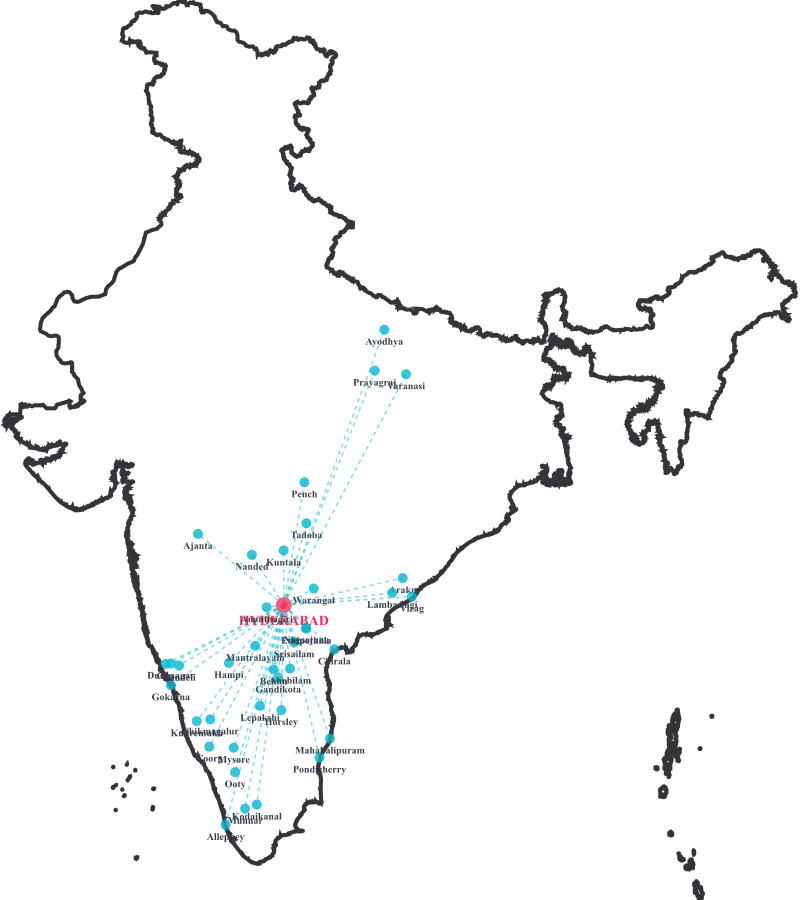
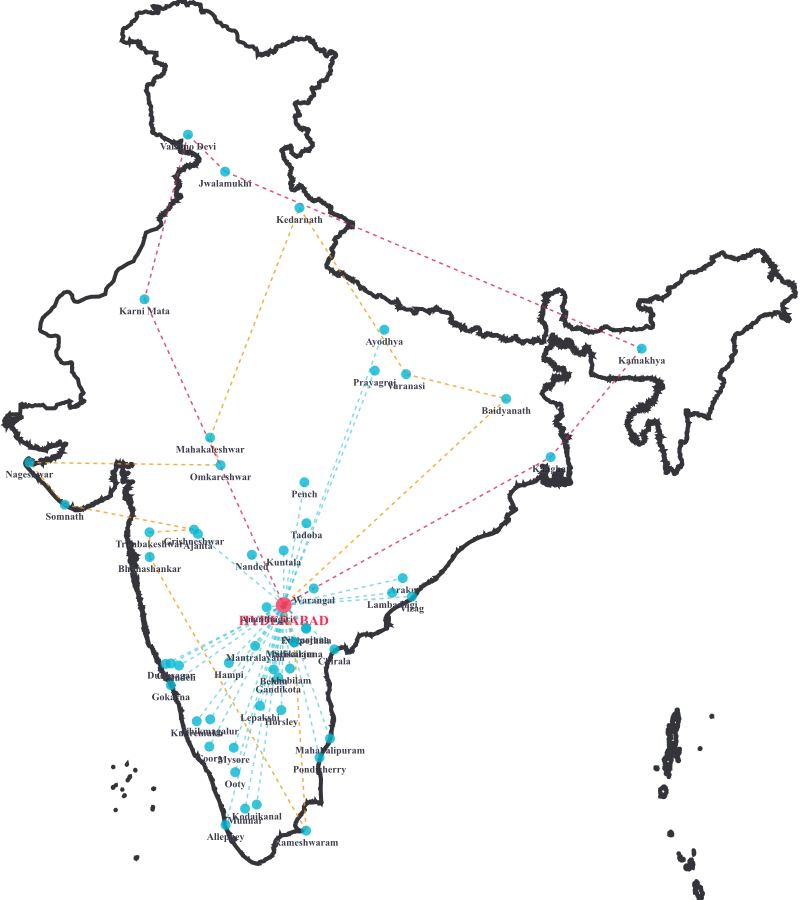
Update trips to show 6 seats per trip; update maps for Jyotirlinga and Shaktipeetham loops

diff --git a/generate-map.js b/generate-map.js
@@ -42,7 +42,23 @@ const cities = {
     Nanded: [77.3090, 19.1492],
     Varanasi: [83.0039, 25.3176],
     Prayagraj: [81.8463, 25.4358],
-    Ayodhya: [82.1998, 26.7922]
+    Ayodhya: [82.1998, 26.7922],
+    Mallikarjuna: [78.8711, 16.0730],
+    Rameshwaram: [79.3129, 9.2876],
+    Bhimashankar: [73.5359, 19.0720],
+    Trimbakeshwar: [73.5298, 19.9324],
+    Grishneshwar: [75.1706, 20.0247],
+    Somnath: [70.4011, 20.8880],
+    Nageshwar: [69.0931, 22.3340],
+    Omkareshwar: [76.1557, 22.2447],
+    Mahakaleshwar: [75.7682, 23.1827],
+    Kedarnath: [79.0669, 30.7352],
+    Baidyanath: [86.6997, 24.4921],
+    Kalighat: [88.3426, 22.5204],
+    Kamakhya: [91.7039, 26.1666],
+    Jwalamukhi: [76.3216, 31.8789],
+    'Vaishno Devi': [74.9490, 33.0308],
+    'Karni Mata': [73.3444, 27.7909]
 };
 
 https.get('https://raw.githubusercontent.com/datameet/maps/master/Country/india-composite.geojson', (resp) => {
@@ -81,11 +97,35 @@ https.get('https://raw.githubusercontent.com/datameet/maps/master/Country/india-
             svgHtml += svgStyles;
             svgHtml += '<path class="india-outline" d="' + svgPath.trim() + '" />';
             
-            // Draw routes first so they are under dots
+            const jyotirlingaRoute = [
+                'Hyderabad', 'Mallikarjuna', 'Rameshwaram', 'Bhimashankar', 'Trimbakeshwar', 
+                'Grishneshwar', 'Somnath', 'Nageshwar', 'Omkareshwar', 'Mahakaleshwar', 
+                'Kedarnath', 'Varanasi', 'Baidyanath', 'Hyderabad'
+            ];
+            const shaktipeethRoute = [
+                'Hyderabad', 'Kalighat', 'Kamakhya', 'Jwalamukhi', 'Vaishno Devi', 'Karni Mata', 'Hyderabad'
+            ];
+            const loopCities = new Set([...jyotirlingaRoute, ...shaktipeethRoute]);
+
+            // Draw regular routes first so they are under dots
             for (const [city, coords] of Object.entries(cities)) {
-                if (city === 'Hyderabad') continue;
+                if (city === 'Hyderabad' || loopCities.has(city)) continue;
                 const pt = projection(coords);
                 svgHtml += '<line class="route-line" x1="' + hyd[0] + '" y1="' + hyd[1] + '" x2="' + pt[0] + '" y2="' + pt[1] + '" />';
+            }
+
+            // Draw Jyotirlinga loop
+            for (let i = 0; i < jyotirlingaRoute.length - 1; i++) {
+                const pt1 = projection(cities[jyotirlingaRoute[i]]);
+                const pt2 = projection(cities[jyotirlingaRoute[i+1]]);
+                svgHtml += '<line class="route-line" style="stroke:#ff9800; opacity:0.8" x1="' + pt1[0] + '" y1="' + pt1[1] + '" x2="' + pt2[0] + '" y2="' + pt2[1] + '" />';
+            }
+
+            // Draw Shaktipeeth loop
+            for (let i = 0; i < shaktipeethRoute.length - 1; i++) {
+                const pt1 = projection(cities[shaktipeethRoute[i]]);
+                const pt2 = projection(cities[shaktipeethRoute[i+1]]);
+                svgHtml += '<line class="route-line" style="stroke:#e91e63; opacity:0.8" x1="' + pt1[0] + '" y1="' + pt1[1] + '" x2="' + pt2[0] + '" y2="' + pt2[1] + '" />';
             }
 
             // Draw hub

diff --git a/js/map.js b/js/map.js
@@ -101,7 +101,10 @@ document.addEventListener('DOMContentLoaded', () => {
         Rameshwaram: [9.2876, 79.3129],
         Kamakhya: [26.1668, 91.7061],
         Kalighat: [22.5204, 88.3476],
-        VaishnoDevi: [33.0298, 74.9482]
+        VaishnoDevi: [33.0298, 74.9482],
+        Mallikarjuna: [16.0730, 78.8711],
+        Jwalamukhi: [31.8789, 76.3216],
+        KarniMata: [27.7909, 73.3444]
     };
 
     const hydCoords = cities.Hyderabad;
@@ -115,7 +118,19 @@ document.addEventListener('DOMContentLoaded', () => {
         weight: 2
     }).addTo(map).bindPopup('<b>Hyderabad</b> (Departure Hub)');
 
-    const multiCityRoutes = new Set(['Varanasi', 'Prayagraj', 'Ayodhya', 'Lonavala', 'Trimbakeshwar']);
+    const jyotirlingaRoute = [
+        'Hyderabad', 'Mallikarjuna', 'Rameshwaram', 'Bhimashankar', 'Trimbakeshwar', 
+        'Grishneshwar', 'Somnath', 'Nageshwar', 'Omkareshwar', 'Mahakaleshwar', 
+        'Kedarnath', 'Varanasi', 'Baidyanath', 'Hyderabad'
+    ];
+    const shaktipeethRoute = [
+        'Hyderabad', 'Kalighat', 'Kamakhya', 'Jwalamukhi', 'VaishnoDevi', 'KarniMata', 'Hyderabad'
+    ];
+
+    const multiCityRoutes = new Set([
+        'Varanasi', 'Prayagraj', 'Ayodhya', 'Lonavala', 'Trimbakeshwar',
+        ...jyotirlingaRoute, ...shaktipeethRoute
+    ]);
 
     // Draw destination lines and markers
     for (const [city, coords] of Object.entries(cities)) {
@@ -175,5 +190,21 @@ document.addEventListener('DOMContentLoaded', () => {
         weight: 2,
         dashArray: '5, 5',
         opacity: 0.4
+    }).addTo(map);
+
+    // Custom Round Route: 12 Jyotirlinga
+    L.polyline(jyotirlingaRoute.map(c => cities[c]), {
+        color: '#ff9800',
+        weight: 2,
+        dashArray: '5, 5',
+        opacity: 0.6
+    }).addTo(map);
+
+    // Custom Round Route: Shaktipeetham
+    L.polyline(shaktipeethRoute.map(c => cities[c]), {
+        color: '#e91e63',
+        weight: 2,
+        dashArray: '5, 5',
+        opacity: 0.6
     }).addTo(map);
 });

diff --git a/build.js b/build.js
@@ -107,7 +107,7 @@ trips.forEach(trip => {
             <div class="trip-meta-tags">
                 <span><i class="fa-regular fa-calendar"></i> ${trip.date}</span>
                 <span><i class="fa-regular fa-clock"></i> ${trip.duration}</span>
-                <span><i class="fa-solid fa-campground"></i> ${trip.stay}</span>
+                <span><i class="fa-solid fa-car"></i> 6 Seats per trip</span>
             </div>
         </div>
     </header>
@@ -126,7 +126,7 @@ trips.forEach(trip => {
             <div class="price-huge">₹${trip.price.toLocaleString('en-IN')} <span style="font-size:1rem;color:var(--text-secondary)">per seat</span></div>
             <button class="btn btn-primary" onclick="bookTrip('${trip.name}', '${trip.date}', '${trip.price}')"><i class="fa-brands fa-whatsapp"></i> Book on WhatsApp</button>
             <button class="btn btn-glass" onclick="shareTripDetail('${trip.name}')"><i class="fa-solid fa-share-nodes"></i> Share Trip</button>
-            <p class='disclaimer' style='font-size:0.85rem; color:var(--text-muted); margin-top:1rem;'>*Note: This price includes travel only. Food and accommodation are included only if explicitly mentioned in the package highlights.</p>
+            <p class='disclaimer' style='font-size:0.85rem; color:var(--text-muted); margin-top:1rem;'>*Note: This price is calculated based on travel only, assuming 6 seats per trip. Food and accommodation are not included.</p>
         </div>
     </main>
 

diff --git a/trips/jyotirlinga.html b/trips/jyotirlinga.html
@@ -72,7 +72,7 @@
             <div class="trip-meta-tags">
                 <span><i class="fa-regular fa-calendar"></i> 1 Nov - 15 Nov</span>
                 <span><i class="fa-regular fa-clock"></i> 15 Days / 14 Nights</span>
-                <span><i class="fa-solid fa-campground"></i> Premium Hotels & AC Trains</span>
+                <span><i class="fa-solid fa-car"></i> 6 Seats per trip</span>
             </div>
         </div>
     </header>
@@ -91,7 +91,7 @@
             <div class="price-huge">₹35,000 <span style="font-size:1rem;color:var(--text-secondary)">per seat</span></div>
             <button class="btn btn-primary" onclick="bookTrip('12 Jyotirlinga Grand Tour', '1 Nov - 15 Nov', '35000')"><i class="fa-brands fa-whatsapp"></i> Book on WhatsApp</button>
             <button class="btn btn-glass" onclick="shareTripDetail('12 Jyotirlinga Grand Tour')"><i class="fa-solid fa-share-nodes"></i> Share Trip</button>
-            <p class='disclaimer' style='font-size:0.85rem; color:var(--text-muted); margin-top:1rem;'>*Note: This price includes travel only. Food and accommodation are included only if explicitly mentioned in the package highlights.</p>
+            <p class='disclaimer' style='font-size:0.85rem; color:var(--text-muted); margin-top:1rem;'>*Note: This price is calculated based on travel only, assuming 6 seats per trip. Food and accommodation are not included.</p>
         </div>
     </main>
 

diff --git a/trips/shaktipeeth.html b/trips/shaktipeeth.html
@@ -72,7 +72,7 @@
             <div class="trip-meta-tags">
                 <span><i class="fa-regular fa-calendar"></i> 5 Oct - 15 Oct</span>
                 <span><i class="fa-regular fa-clock"></i> 11 Days / 10 Nights</span>
-                <span><i class="fa-solid fa-campground"></i> Premium Hotels</span>
+                <span><i class="fa-solid fa-car"></i> 6 Seats per trip</span>
             </div>
         </div>
     </header>
@@ -91,7 +91,7 @@
             <div class="price-huge">₹28,000 <span style="font-size:1rem;color:var(--text-secondary)">per seat</span></div>
             <button class="btn btn-primary" onclick="bookTrip('Shakti Peetham Divine Tour', '5 Oct - 15 Oct', '28000')"><i class="fa-brands fa-whatsapp"></i> Book on WhatsApp</button>
             <button class="btn btn-glass" onclick="shareTripDetail('Shakti Peetham Divine Tour')"><i class="fa-solid fa-share-nodes"></i> Share Trip</button>
-            <p class='disclaimer' style='font-size:0.85rem; color:var(--text-muted); margin-top:1rem;'>*Note: This price includes travel only. Food and accommodation are included only if explicitly mentioned in the package highlights.</p>
+            <p class='disclaimer' style='font-size:0.85rem; color:var(--text-muted); margin-top:1rem;'>*Note: This price is calculated based on travel only, assuming 6 seats per trip. Food and accommodation are not included.</p>
         </div>
     </main>
 

diff --git a/trips/lonavala.html b/trips/lonavala.html
@@ -72,7 +72,7 @@
             <div class="trip-meta-tags">
                 <span><i class="fa-regular fa-calendar"></i> 12 Sep - 14 Sep</span>
                 <span><i class="fa-regular fa-clock"></i> 3 Days / 2 Nights</span>
-                <span><i class="fa-solid fa-campground"></i> Hill Resort & Hotel</span>
+                <span><i class="fa-solid fa-car"></i> 6 Seats per trip</span>
             </div>
         </div>
     </header>
@@ -91,7 +91,7 @@
             <div class="price-huge">₹5,500 <span style="font-size:1rem;color:var(--text-secondary)">per seat</span></div>
             <button class="btn btn-primary" onclick="bookTrip('Lonavala & Trimbakeshwar', '12 Sep - 14 Sep', '5500')"><i class="fa-brands fa-whatsapp"></i> Book on WhatsApp</button>
             <button class="btn btn-glass" onclick="shareTripDetail('Lonavala & Trimbakeshwar')"><i class="fa-solid fa-share-nodes"></i> Share Trip</button>
-            <p class='disclaimer' style='font-size:0.85rem; color:var(--text-muted); margin-top:1rem;'>*Note: This price includes travel only. Food and accommodation are included only if explicitly mentioned in the package highlights.</p>
+            <p class='disclaimer' style='font-size:0.85rem; color:var(--text-muted); margin-top:1rem;'>*Note: This price is calculated based on travel only, assuming 6 seats per trip. Food and accommodation are not included.</p>
         </div>
     </main>
 

diff --git a/trips/up-heritage.html b/trips/up-heritage.html
@@ -72,7 +72,7 @@
             <div class="trip-meta-tags">
                 <span><i class="fa-regular fa-calendar"></i> 22 Aug - 23 Aug</span>
                 <span><i class="fa-regular fa-clock"></i> 7 Days, 6 Nights</span>
-                <span><i class="fa-solid fa-campground"></i> Premium Hotels</span>
+                <span><i class="fa-solid fa-car"></i> 6 Seats per trip</span>
             </div>
         </div>
     </header>
@@ -91,7 +91,7 @@
             <div class="price-huge">₹15,000 <span style="font-size:1rem;color:var(--text-secondary)">per seat</span></div>
             <button class="btn btn-primary" onclick="bookTrip('Kashi, Ayodhya & Prayagraj', '22 Aug - 23 Aug', '15000')"><i class="fa-brands fa-whatsapp"></i> Book on WhatsApp</button>
             <button class="btn btn-glass" onclick="shareTripDetail('Kashi, Ayodhya & Prayagraj')"><i class="fa-solid fa-share-nodes"></i> Share Trip</button>
-            <p class='disclaimer' style='font-size:0.85rem; color:var(--text-muted); margin-top:1rem;'>*Note: This price includes travel only. Food and accommodation are included only if explicitly mentioned in the package highlights.</p>
+            <p class='disclaimer' style='font-size:0.85rem; color:var(--text-muted); margin-top:1rem;'>*Note: This price is calculated based on travel only, assuming 6 seats per trip. Food and accommodation are not included.</p>
         </div>
     </main>
 

diff --git a/trips/bapatla.html b/trips/bapatla.html
@@ -72,7 +72,7 @@
             <div class="trip-meta-tags">
                 <span><i class="fa-regular fa-calendar"></i> 5 Sep - 6 Sep</span>
                 <span><i class="fa-regular fa-clock"></i> 2 Days / 1 Night</span>
-                <span><i class="fa-solid fa-campground"></i> Beach side stay</span>
+                <span><i class="fa-solid fa-car"></i> 6 Seats per trip</span>
             </div>
         </div>
     </header>
@@ -91,7 +91,7 @@
             <div class="price-huge">₹3,500 <span style="font-size:1rem;color:var(--text-secondary)">per seat</span></div>
             <button class="btn btn-primary" onclick="bookTrip('Bapatla - Suryalanka Beach', '5 Sep - 6 Sep', '3500')"><i class="fa-brands fa-whatsapp"></i> Book on WhatsApp</button>
             <button class="btn btn-glass" onclick="shareTripDetail('Bapatla - Suryalanka Beach')"><i class="fa-solid fa-share-nodes"></i> Share Trip</button>
-            <p class='disclaimer' style='font-size:0.85rem; color:var(--text-muted); margin-top:1rem;'>*Note: This price includes travel only. Food and accommodation are included only if explicitly mentioned in the package highlights.</p>
+            <p class='disclaimer' style='font-size:0.85rem; color:var(--text-muted); margin-top:1rem;'>*Note: This price is calculated based on travel only, assuming 6 seats per trip. Food and accommodation are not included.</p>
         </div>
     </main>
 

diff --git a/trips/pune.html b/trips/pune.html
@@ -72,7 +72,7 @@
             <div class="trip-meta-tags">
                 <span><i class="fa-regular fa-calendar"></i> 19 Sep - 20 Sep</span>
                 <span><i class="fa-regular fa-clock"></i> 2 Days / 1 Night</span>
-                <span><i class="fa-solid fa-campground"></i> Boutique Hotel</span>
+                <span><i class="fa-solid fa-car"></i> 6 Seats per trip</span>
             </div>
         </div>
     </header>
@@ -91,7 +91,7 @@
             <div class="price-huge">₹4,000 <span style="font-size:1rem;color:var(--text-secondary)">per seat</span></div>
             <button class="btn btn-primary" onclick="bookTrip('Pune Heritage & Cafe Run', '19 Sep - 20 Sep', '4000')"><i class="fa-brands fa-whatsapp"></i> Book on WhatsApp</button>
             <button class="btn btn-glass" onclick="shareTripDetail('Pune Heritage & Cafe Run')"><i class="fa-solid fa-share-nodes"></i> Share Trip</button>
-            <p class='disclaimer' style='font-size:0.85rem; color:var(--text-muted); margin-top:1rem;'>*Note: This price includes travel only. Food and accommodation are included only if explicitly mentioned in the package highlights.</p>
+            <p class='disclaimer' style='font-size:0.85rem; color:var(--text-muted); margin-top:1rem;'>*Note: This price is calculated based on travel only, assuming 6 seats per trip. Food and accommodation are not included.</p>
         </div>
     </main>
 

diff --git a/trips/srisailam.html b/trips/srisailam.html
@@ -72,7 +72,7 @@
             <div class="trip-meta-tags">
                 <span><i class="fa-regular fa-calendar"></i> 22 Aug - 23 Aug</span>
                 <span><i class="fa-regular fa-clock"></i> 1 Day</span>
-                <span><i class="fa-solid fa-campground"></i> Day trip</span>
+                <span><i class="fa-solid fa-car"></i> 6 Seats per trip</span>
             </div>
         </div>
     </header>
@@ -91,7 +91,7 @@
             <div class="price-huge">₹3,500 <span style="font-size:1rem;color:var(--text-secondary)">per seat</span></div>
             <button class="btn btn-primary" onclick="bookTrip('Srisailam Temple & Tiger Reserve', '22 Aug - 23 Aug', '3500')"><i class="fa-brands fa-whatsapp"></i> Book on WhatsApp</button>
             <button class="btn btn-glass" onclick="shareTripDetail('Srisailam Temple & Tiger Reserve')"><i class="fa-solid fa-share-nodes"></i> Share Trip</button>
-            <p class='disclaimer' style='font-size:0.85rem; color:var(--text-muted); margin-top:1rem;'>*Note: This price includes travel only. Food and accommodation are included only if explicitly mentioned in the package highlights.</p>
+            <p class='disclaimer' style='font-size:0.85rem; color:var(--text-muted); margin-top:1rem;'>*Note: This price is calculated based on travel only, assuming 6 seats per trip. Food and accommodation are not included.</p>
         </div>
     </main>
 

diff --git a/trips/dandeli.html b/trips/dandeli.html
@@ -72,7 +72,7 @@
             <div class="trip-meta-tags">
                 <span><i class="fa-regular fa-calendar"></i> 17 Oct - 18 Oct</span>
                 <span><i class="fa-regular fa-clock"></i> 2 Days / 1 Night</span>
-                <span><i class="fa-solid fa-campground"></i> Riverside tents</span>
+                <span><i class="fa-solid fa-car"></i> 6 Seats per trip</span>
             </div>
         </div>
     </header>
@@ -91,7 +91,7 @@
             <div class="price-huge">₹5,500 <span style="font-size:1rem;color:var(--text-secondary)">per seat</span></div>
             <button class="btn btn-primary" onclick="bookTrip('Dandeli Adventure Rush', '17 Oct - 18 Oct', '5500')"><i class="fa-brands fa-whatsapp"></i> Book on WhatsApp</button>
             <button class="btn btn-glass" onclick="shareTripDetail('Dandeli Adventure Rush')"><i class="fa-solid fa-share-nodes"></i> Share Trip</button>
-            <p class='disclaimer' style='font-size:0.85rem; color:var(--text-muted); margin-top:1rem;'>*Note: This price includes travel only. Food and accommodation are included only if explicitly mentioned in the package highlights.</p>
+            <p class='disclaimer' style='font-size:0.85rem; color:var(--text-muted); margin-top:1rem;'>*Note: This price is calculated based on travel only, assuming 6 seats per trip. Food and accommodation are not included.</p>
         </div>
     </main>
 

diff --git a/trips/pondicherry.html b/trips/pondicherry.html
@@ -72,7 +72,7 @@
             <div class="trip-meta-tags">
                 <span><i class="fa-regular fa-calendar"></i> 5 Sep - 6 Sep</span>
                 <span><i class="fa-regular fa-clock"></i> 2 Days / 1 Night</span>
-                <span><i class="fa-solid fa-campground"></i> Heritage hostel</span>
+                <span><i class="fa-solid fa-car"></i> 6 Seats per trip</span>
             </div>
         </div>
     </header>
@@ -91,7 +91,7 @@
             <div class="price-huge">₹7,000 <span style="font-size:1rem;color:var(--text-secondary)">per seat</span></div>
             <button class="btn btn-primary" onclick="bookTrip('Pondicherry French Vibes', '5 Sep - 6 Sep', '7000')"><i class="fa-brands fa-whatsapp"></i> Book on WhatsApp</button>
             <button class="btn btn-glass" onclick="shareTripDetail('Pondicherry French Vibes')"><i class="fa-solid fa-share-nodes"></i> Share Trip</button>
-            <p class='disclaimer' style='font-size:0.85rem; color:var(--text-muted); margin-top:1rem;'>*Note: This price includes travel only. Food and accommodation are included only if explicitly mentioned in the package highlights.</p>
+            <p class='disclaimer' style='font-size:0.85rem; color:var(--text-muted); margin-top:1rem;'>*Note: This price is calculated based on travel only, assuming 6 seats per trip. Food and accommodation are not included.</p>
         </div>
     </main>
 
